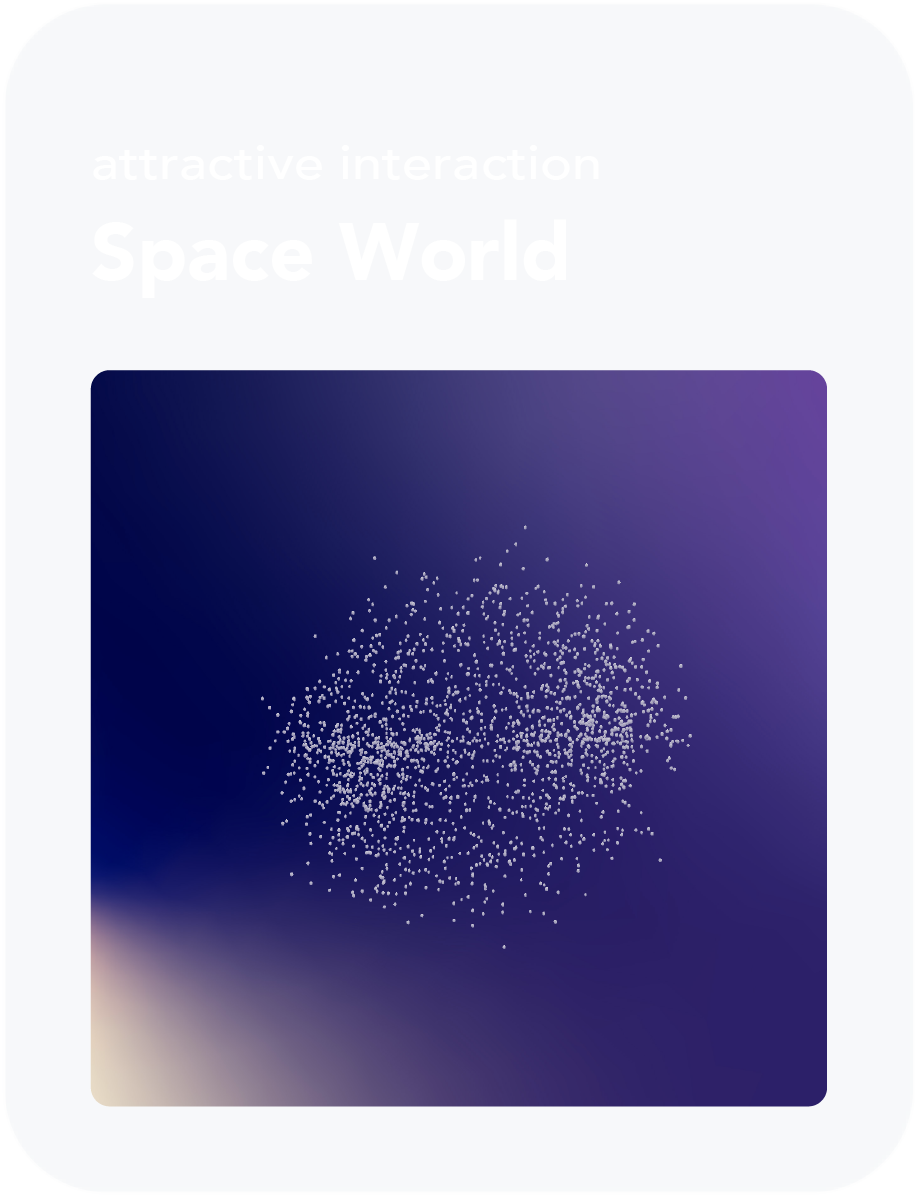
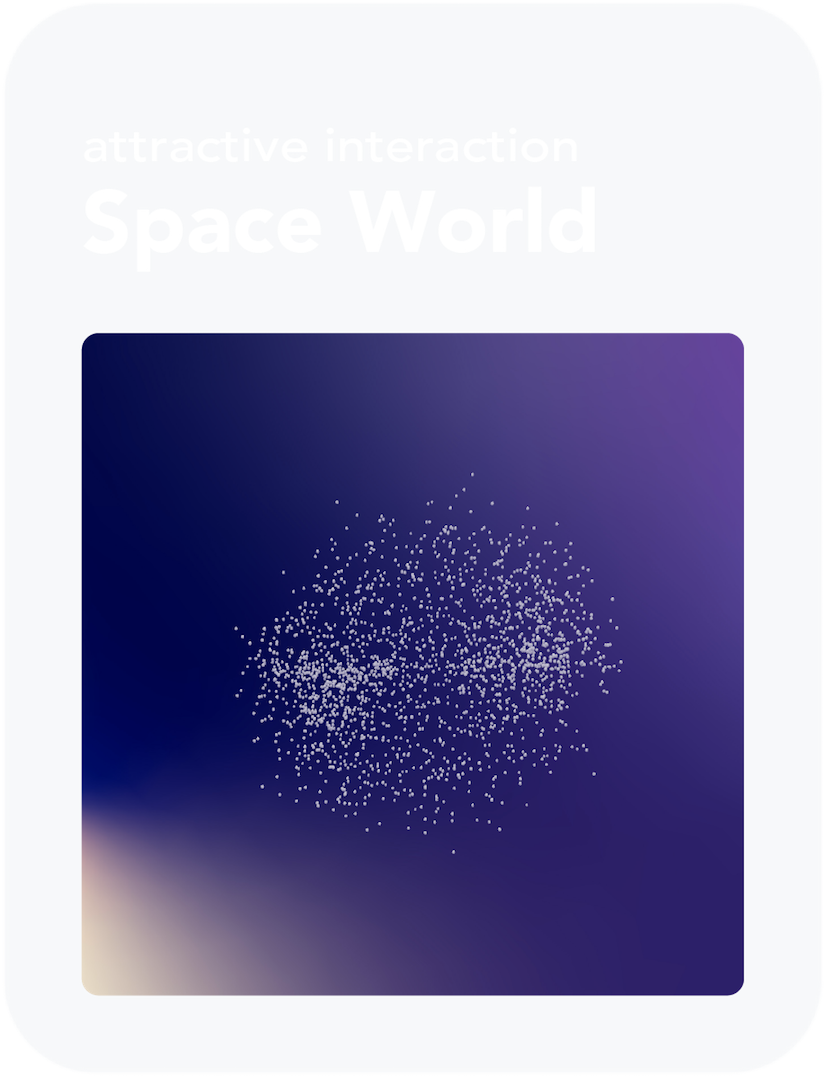
リンクの位置やサイズを修正、ホバー時の動く範囲をデバイスごとに設定

diff --git a/components/artwork/js/Link.js b/components/artwork/js/Link.js
@@ -4,6 +4,11 @@ import fragmentShader from '../glsl/globalMenu.frag';
 import { state } from './state';
 import { getTexture } from './textures';
 
+const hoverMoveOffsetByDevice = {
+  pc: 30,
+  sp: 10,
+};
+
 export default class Link {
   constructor(pos, path, type) {
     // 元ある場所
@@ -26,7 +31,9 @@ export default class Link {
     // ホバー中かどうか
     this.isHover = false;
     // ホバー時に動く範囲（半径）
-    this.hoverMoveOffset = 30;
+    this.hoverMoveOffset = state.isMobile
+      ? hoverMoveOffsetByDevice.sp
+      : hoverMoveOffsetByDevice.pc;
 
     // カーソルへのストーキング速度
     this.stokingSpeed = 0.1;
@@ -84,8 +91,8 @@ export default class Link {
       });
     } else if (this.type === 'goal') {
       // サイズは統一
-      this.width = 917 * state.variableImageRate;
-      this.height = 1197 * state.variableImageRate;
+      this.width = 825 * state.variableImageRate;
+      this.height = 1077 * state.variableImageRate;
       // テクスチャわけ
       switch (this.nextPathName) {
         case '/':
@@ -189,13 +196,13 @@ export default class Link {
           );
     } else {
       // メニュー
-      const offsetSP = 20;
+      const verticalOffsetSP = 24;
       pos = state.isMobile
         ? new THREE.Vector3(
             windowSize.w / 2 - margin.sp.side - margin.sp.between * (index % 2),
             windowSize.h / 2 -
               margin.sp.top -
-              (1 - Math.floor(index / 2)) * offsetSP,
+              (1 - Math.floor(index / 2)) * verticalOffsetSP,
             z
           )
         : new THREE.Vector3(
@@ -237,6 +244,11 @@ export default class Link {
 
     // 初期位置を再設定
     this.resetInitialPosition(this.mesh.position);
+
+    // ホバーオフセットをデバイスに合わせる
+    this.hoverMoveOffset = state.isMobile
+      ? hoverMoveOffsetByDevice.sp
+      : hoverMoveOffsetByDevice.pc;
   }
 
   // 等間隔配置するため、幅の半分だけ位置をずらす（左右によって異なるので場合分け）

diff --git a/components/artwork/js/Stage.js b/components/artwork/js/Stage.js
@@ -134,13 +134,13 @@ class Stage {
 
     // ゴールの周りに表示するテキスト
     const goalTextEn = new TextObject(
-      new THREE.Vector3(0, 300, goalPositionZ),
-      1880 * state.variableImageRate,
-      189 * state.variableImageRate,
+      new THREE.Vector3(0, 280, goalPositionZ),
+      1448 * state.variableImageRate,
+      146 * state.variableImageRate,
       getTexture('goal_text_en')
     );
     const goalTextJa = new TextObject(
-      new THREE.Vector3(0, -300, goalPositionZ),
+      new THREE.Vector3(0, -280, goalPositionZ),
       768 * state.variableImageRate,
       121 * state.variableImageRate,
       getTexture('goal_text_ja')
@@ -163,16 +163,16 @@ class Stage {
     // ゴールリンクを置く座標
     const positions = state.isMobile
       ? [
-          { x: -102, y: 140 },
-          { x: 102, y: 140 },
-          { x: -102, y: -120 },
-          { x: 102, y: -120 },
+          { x: -90, y: 140 },
+          { x: 90, y: 140 },
+          { x: -90, y: -100 },
+          { x: 90, y: -100 },
         ]
       : [
-          { x: -510, y: 0 },
-          { x: -170, y: 0 },
-          { x: 170, y: 0 },
-          { x: 510, y: 0 },
+          { x: -480, y: 0 },
+          { x: -160, y: 0 },
+          { x: 160, y: 0 },
+          { x: 480, y: 0 },
         ];
     let posIndex = 0; // backをのぞいて左から順に配置するためのindex
     for (const obj of this.goalLinkObjects) {
